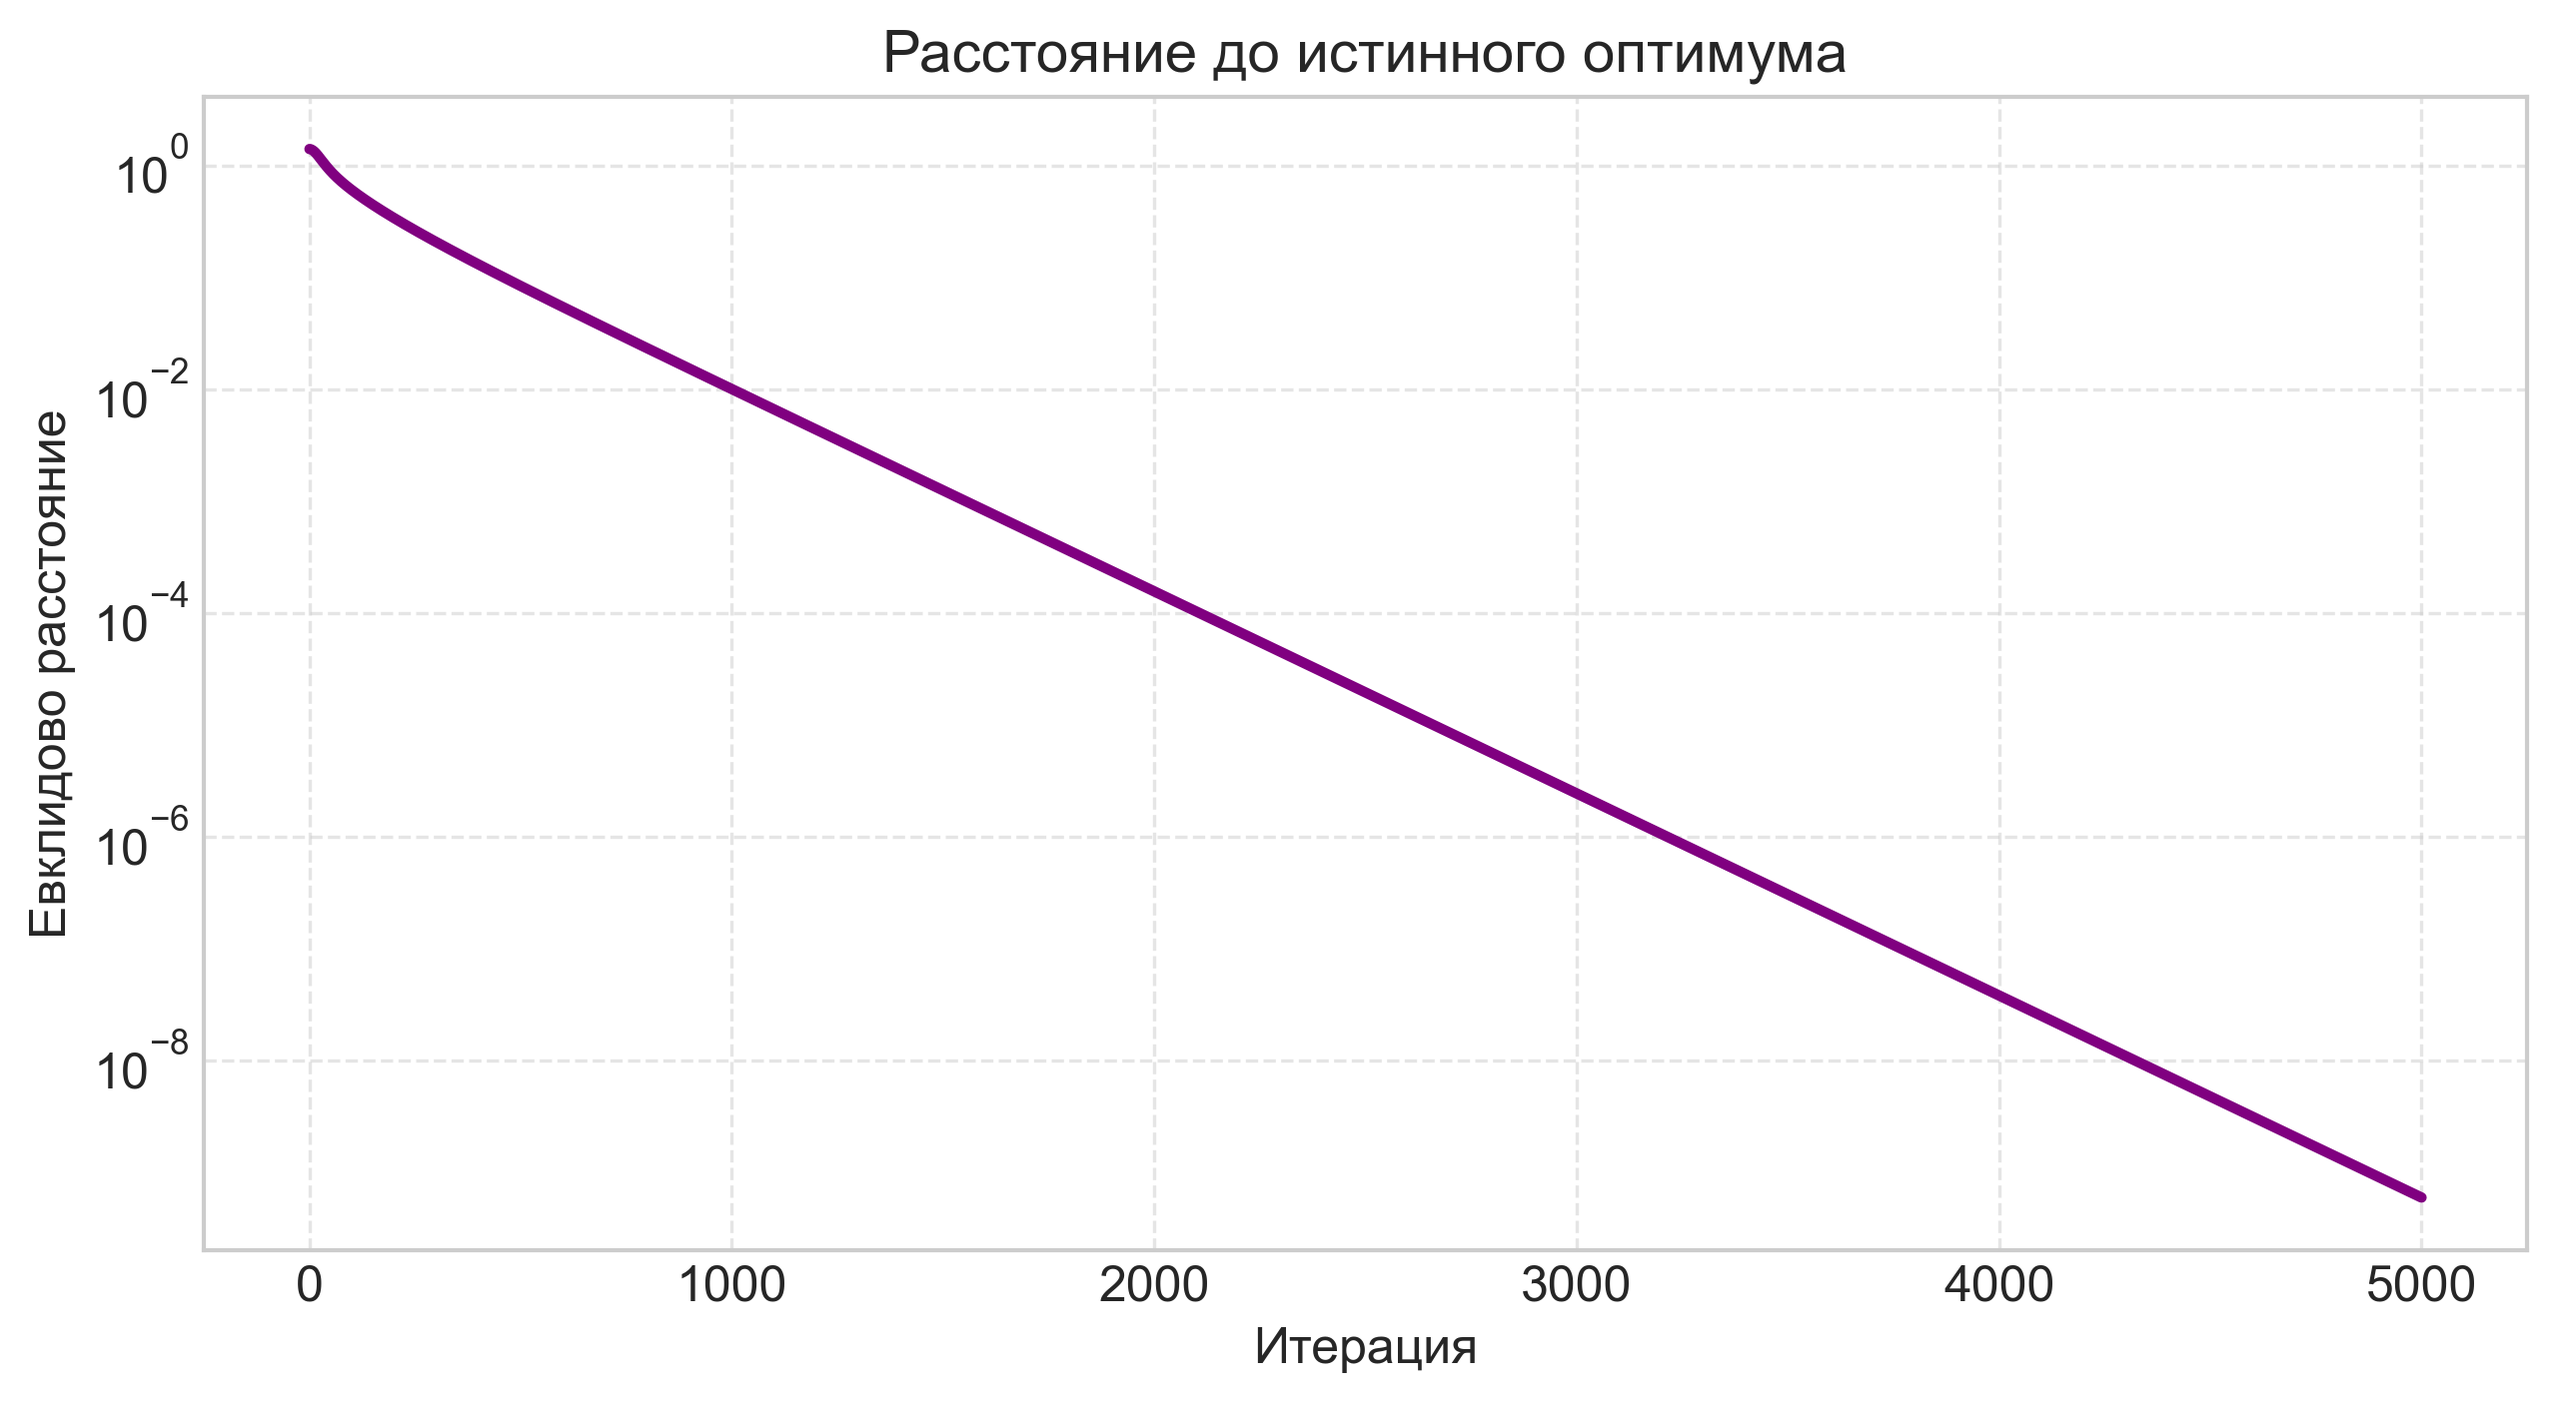
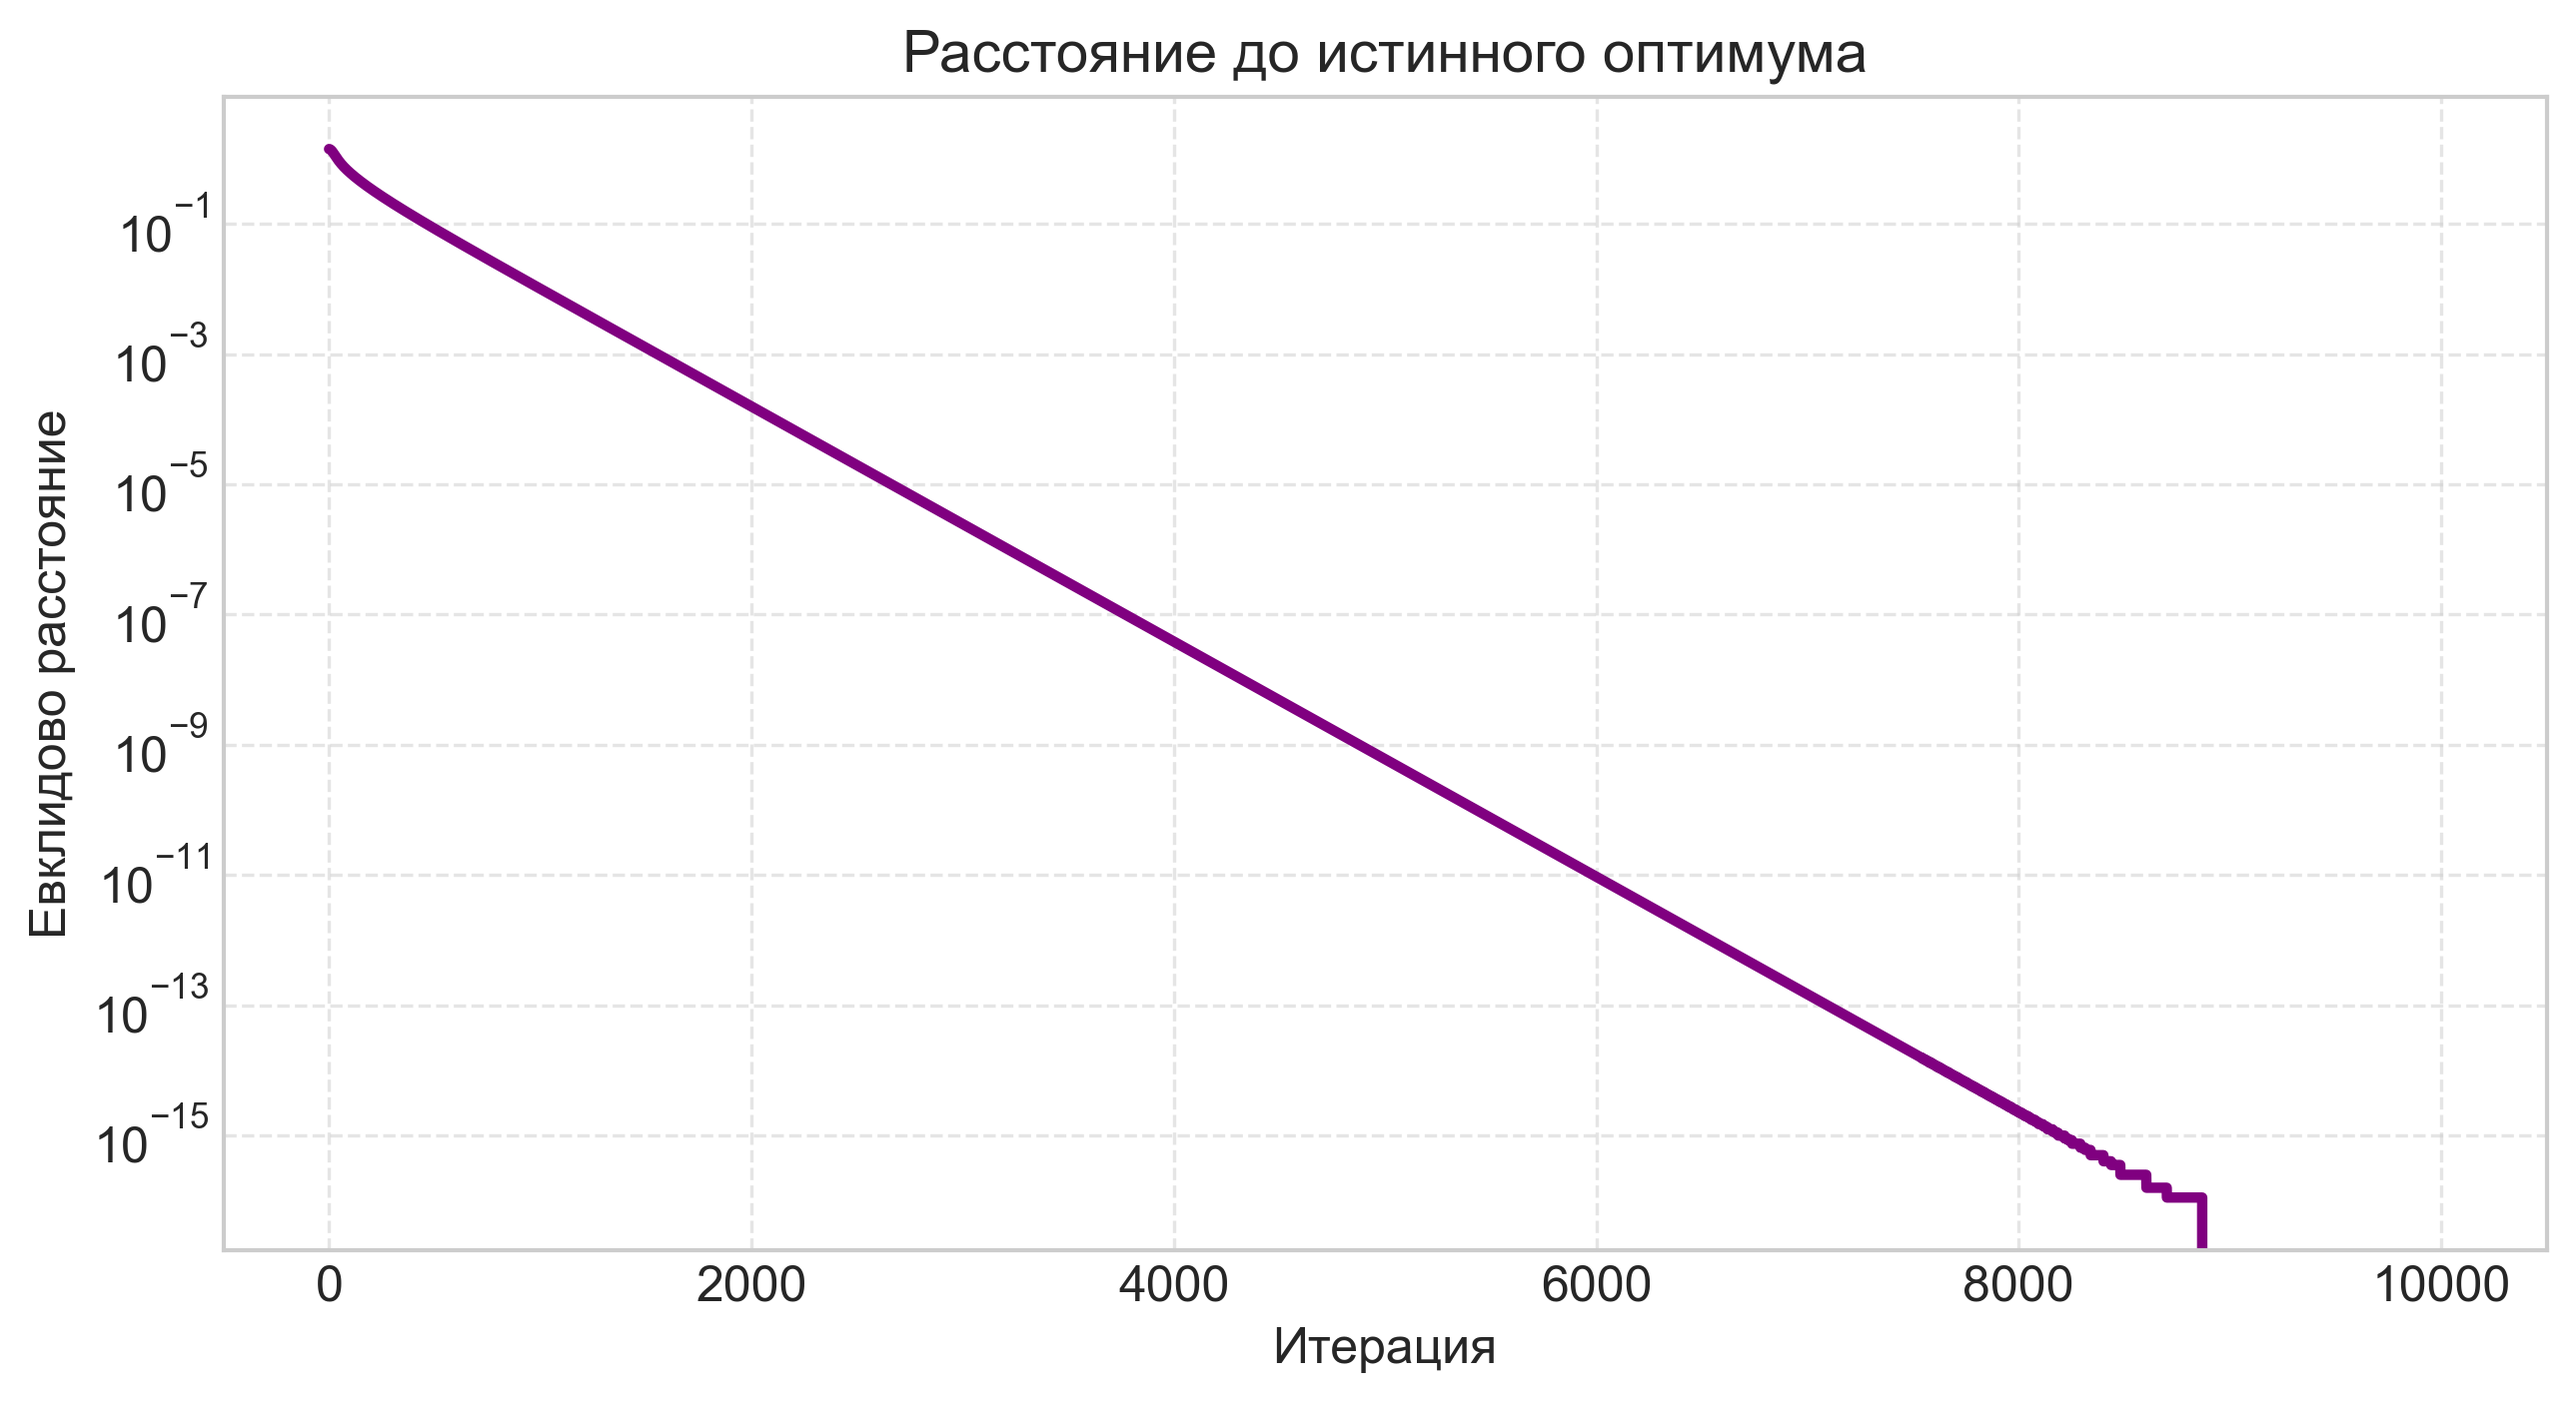
fix: better perfomance

diff --git a/lab1/Optimization/optimizers.py b/lab1/Optimization/optimizers.py
@@ -25,32 +25,35 @@ class BaseOptimizer(ABC):
         variables: List[CNVariable],
         verbose: bool = False
     ) -> Dict:
-        self._initialize(variables)
+        decimal.getcontext().prec = self.precision_digits
 
+        self._initialize(variables)
         ast_data = self._build_gradients(target_func, variables)
         
-        point_history = [[float(var.val) for var in variables]]
+        point_history = [[var.val for var in variables]]
         loss_history = []
 
         for t in range(1, self.max_iter + 1):
-            current_loss = float(target_func.evaluate(self.precision_digits).middle)
-            loss_history.append(current_loss)
+            loss_interval = target_func.evaluate(self.precision_digits)
+            loss_history.append(loss_interval.middle)
 
-            current_grads, max_grad_norm = self._compute_gradients(ast_data, variables, t)
+            current_grads_mid, max_grad_norm, is_perfect_stop = self._compute_gradients(ast_data, variables, t)
             
             if verbose and t % 100 == 0:
-                print(f"Итерация {t}/{self.max_iter} | Значение функции: {current_loss:.6f} | Макс. градиент: {float(max_grad_norm):.6f}")
+                print(f"Итерация {t}/{self.max_iter} | Loss: {float(loss_interval.middle):.10f} | Max Grad: {float(max_grad_norm):.10f}")
 
             if max_grad_norm < self.tolerance:
                 if verbose:
                     print(f"Сходится на итерации {t}!")
+                    if is_perfect_stop:
+                        print("Глобальный минимум математически доказан (0 внутри интервала градиента).")
                 break
             
-            steps = self._calculate_steps(current_grads, t)
+            steps = self._calculate_steps(current_grads_mid, t)
             new_point = self._take_step(variables, steps)
             point_history.append(new_point)
 
-        final_loss = float(target_func.evaluate(self.precision_digits).middle)
+        final_loss = target_func.evaluate(self.precision_digits).middle
         loss_history.append(final_loss)
 
         return {
@@ -87,21 +90,25 @@ class BaseOptimizer(ABC):
         ast_data,
         variables: List[CNVariable],
         t: int
-    ) -> Tuple[List[decimal.Decimal], decimal.Decimal]:
-        current_grads = [grad.evaluate(self.precision_digits).middle for grad in ast_data]
-        max_grad_norm = max(abs(g) for g in current_grads) if current_grads else decimal.Decimal(0)
-        return current_grads, max_grad_norm
+    ) -> Tuple[List[decimal.Decimal], decimal.Decimal, bool]:
+        current_grads_intervals = [grad.evaluate(self.precision_digits) for grad in ast_data]
+        current_grads_mid = [g.middle for g in current_grads_intervals]
+        max_grad_norm = max(g.magnitude for g in current_grads_intervals) if current_grads_intervals else decimal.Decimal(0)
+        
+        is_perfect_stop = all(g.low <= 0 <= g.high for g in current_grads_intervals)
+        
+        return current_grads_mid, max_grad_norm, is_perfect_stop
 
     def _take_step(
         self,
         variables: List[CNVariable],
         steps: List[decimal.Decimal]
-    ) -> List[float]:
+    ) -> List[decimal.Decimal]:
         new_point = []
         for i, var in enumerate(variables):
             new_val = var.val - steps[i]
             var.set_val(str(new_val))
-            new_point.append(float(new_val))
+            new_point.append(new_val)
         return new_point
 
 
@@ -129,13 +136,12 @@ class KieferWolfowitzOptimizer(BaseOptimizer):
 
     def _compute_gradients(
         self, 
-        target_func: ConstructiveNumber, 
+        target_func: ConstructiveNumber,
         variables: List[CNVariable], 
         t: int
-    ) -> Tuple[List[decimal.Decimal], decimal.Decimal]:
+    ) -> Tuple[List[decimal.Decimal], decimal.Decimal, bool]:
         n_vars = len(variables)
         estimated_grads = []
-        
         c_t = self.c / (decimal.Decimal(t) ** decimal.Decimal('0.25'))
 
         for i in range(n_vars):
@@ -153,7 +159,8 @@ class KieferWolfowitzOptimizer(BaseOptimizer):
             estimated_grads.append(grad_est)
 
         max_grad_norm = max(abs(g) for g in estimated_grads) if estimated_grads else decimal.Decimal(0)
-        return estimated_grads, max_grad_norm
+        
+        return estimated_grads, max_grad_norm, False
 
     def _calculate_steps(
         self, 
@@ -165,8 +172,16 @@ class KieferWolfowitzOptimizer(BaseOptimizer):
 
 
 class GradientDescent(BaseOptimizer):
+    def __init__(
+        self,
+        clip_value: float = 100.0,
+        **kwargs
+    ) -> None:
+        super().__init__(**kwargs)
+        self.clip_value = decimal.Decimal(str(clip_value))
+
     def _initialize(
-        self, 
+        self,
         variables: List[CNVariable]
     ) -> None:
         pass
@@ -174,7 +189,17 @@ class GradientDescent(BaseOptimizer):
     def _calculate_steps(
         self, gradients: List[decimal.Decimal], t: int
     ) -> List[decimal.Decimal]:
-        return [self.lr * g for g in gradients]
+        steps = []
+        for g in gradients:
+            if g > self.clip_value:
+                g_clipped = self.clip_value
+            elif g < -self.clip_value:
+                g_clipped = -self.clip_value
+            else:
+                g_clipped = g
+                
+            steps.append(self.lr * g_clipped)
+        return steps
 
 
 class MomentumGradientDescent(BaseOptimizer):

diff --git a/lab1/Visuals/visualizer.py b/lab1/Visuals/visualizer.py
@@ -28,7 +28,7 @@ class OptimizationVisualizer:
         padding: float = 0.5,
         resolution: int = 200
     ) -> Tuple[np.ndarray, np.ndarray]:
-        path_np = np.array(path)
+        path_np = np.array(path, dtype=float)
         x_min, x_max = path_np[:, 0].min(), path_np[:, 0].max()
         y_min, y_max = path_np[:, 1].min(), path_np[:, 1].max()
 
@@ -67,7 +67,8 @@ class OptimizationVisualizer:
     def plot_optimization_path(
         self,
         point_history: List[List[float]], 
-        func_np: Callable, true_optimum: List[float], 
+        func_np: Callable, 
+        true_optimum: List[float], 
         filename: str = "path_2d.png"
     ) -> None:
         if len(point_history[0]) > 2:
@@ -83,15 +84,16 @@ class OptimizationVisualizer:
         plt.contourf(X, Y, Z, levels=levels, cmap='Blues', alpha=0.6, locator=plt.matplotlib.ticker.LogLocator())
         plt.contour(X, Y, Z, levels=levels, colors='black', linewidths=0.5, alpha=0.3)
 
-        path_np = np.array(point_history)
+        path_np = np.array(point_history, dtype=float)
         xs = path_np[:, 0]
         ys = path_np[:, 1]
+        
+        opt_x, opt_y = float(true_optimum[0]), float(true_optimum[1])
 
         plt.plot(xs, ys, color='crimson', marker='o', linestyle='-', linewidth=2, markersize=4, label='Траектория оптимизатора')
         plt.plot(xs[0], ys[0], 'go', markersize=10, label='Старт', markeredgecolor='black')
         plt.plot(xs[-1], ys[-1], 'r*', markersize=15, label='Финиш (Оптимум)', markeredgecolor='black')
-        plt.plot(true_optimum[0], true_optimum[1], '*', color='gold', markersize=18, label='Истинный минимум', markeredgecolor='black')
-
+        plt.plot(opt_x, opt_y, '*', color='gold', markersize=18, label='Истинный минимум', markeredgecolor='black')
 
         plt.title("Траектория спуска (Контурный график)")
         plt.xlabel("X")
@@ -108,13 +110,16 @@ class OptimizationVisualizer:
         loss_history: List[float], 
         filename: str = "loss_history.png"
     ) -> None:
+        loss_float = [float(val) for val in loss_history]
+        
         plt.figure(figsize=(10, 5))
-        plt.plot(loss_history, color='darkorange', linewidth=2.5)
+        plt.plot(loss_float, color='darkorange', linewidth=2.5)
         
         plt.title("Сходимость функции (Loss vs Iteration)")
         plt.xlabel("Итерация")
         plt.ylabel("Значение функции f(x)")
-        plt.yscale('log') 
+        
+        plt.yscale('symlog', linthresh=1e-15) 
         plt.grid(True, which="both", ls="--", alpha=0.5)
 
         filepath = os.path.join(self.save_dir, filename)
@@ -127,8 +132,8 @@ class OptimizationVisualizer:
         true_optimum: List[float], 
         filename: str = "distance_history.png"
     ) -> None:
-        path_np = np.array(point_history)
-        optimum_np = np.array(true_optimum)
+        path_np = np.array(point_history, dtype=float)
+        optimum_np = np.array(true_optimum, dtype=float)
     
         distances = np.linalg.norm(path_np - optimum_np, axis=1)
 

diff --git a/lab1/main.py b/lab1/main.py
@@ -37,7 +37,8 @@ def run_experiment(
         )
 
 if __name__ == "__main__":
-    decimal.getcontext().prec = 25
+    precision = 100
+    decimal.getcontext().prec = precision
 
     # ========================================================
     # ЭКСПЕРИМЕНТ 1: ФУНКЦИЯ РОЗЕНБРОКА
@@ -46,10 +47,10 @@ if __name__ == "__main__":
     rosenbrock_true_opt = [1.0, 1.0]
 
     rosen_optimizers = {
-        "Adam": AdamOptimizer(learning_rate=0.05, max_iter=5000, tolerance=0),
-        "Momentum": MomentumGradientDescent(learning_rate=0.01, momentum=0.9, max_iter=5000, tolerance=0),
-        "Vanilla_GD": GradientDescent(learning_rate=0.005, max_iter=5000, tolerance=0),
-        "Kiefer_Wolfowitz": KieferWolfowitzOptimizer(learning_rate=0.05, c=0.01, max_iter=5000, tolerance=0) 
+        "Adam": AdamOptimizer(epsilon=1e-2, learning_rate=0.0005, max_iter=10000, tolerance=0, precision_digits=precision),
+        "Momentum": MomentumGradientDescent(learning_rate=0.01, momentum=0.9, max_iter=10000, tolerance=0, precision_digits=precision),
+        "Vanilla_GD": GradientDescent(learning_rate=0.002, max_iter=30000, tolerance=0, precision_digits=precision),
+        "Kiefer_Wolfowitz": KieferWolfowitzOptimizer(learning_rate=0.05, c=0.01, max_iter=10000, tolerance=0, precision_digits=precision)
     }
 
     run_experiment(
@@ -68,8 +69,8 @@ if __name__ == "__main__":
     dixon_true_opt = [1.0, 0.707106]
 
     dixon_optimizers = {
-    "Adam": AdamOptimizer(learning_rate=0.01, max_iter=5000, tolerance=0),
-    "Momentum": MomentumGradientDescent(learning_rate=0.005, momentum=0.95, max_iter=5000, tolerance=0)
+        "Adam": AdamOptimizer(epsilon=1e-10, learning_rate=0.01, max_iter=10000, tolerance=0, precision_digits=precision),
+        "Momentum": MomentumGradientDescent(learning_rate=0.005, momentum=0.95, max_iter=10000, tolerance=0, precision_digits=precision),
     }
 
     run_experiment(

diff --git a/lab1/Core/interval.py b/lab1/Core/interval.py
@@ -21,5 +21,10 @@ class Interval:
         """Значение по центру интервала"""
         return (self.low + self.high) / 2
     
+    @property
+    def magnitude(self) -> decimal.Decimal:
+        """Магнитуда интервала"""
+        return max(abs(self.low), abs(self.high))
+    
     def __repr__(self) -> str:
         return f"[{self.low}, {self.high}]"

diff --git a/lab1/Core/constructive_numbers.py b/lab1/Core/constructive_numbers.py
@@ -185,7 +185,7 @@ class CNVariable(ConstructiveNumber):
 
     def set_val(
         self,
-        new_val: str | float | int
+        new_val: decimal.Decimal | str | float | int
     ) -> None:
         self.val = decimal.Decimal(new_val)
         self._cached_prec = -1
